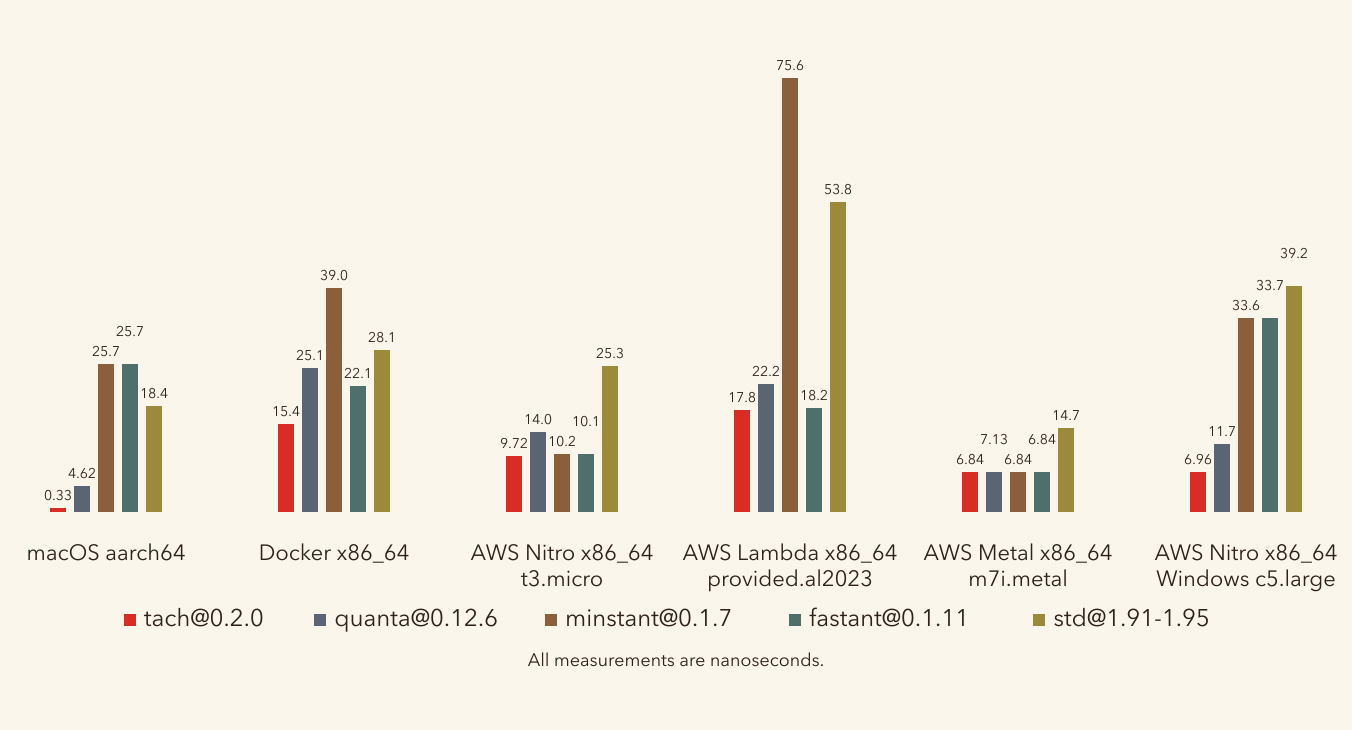
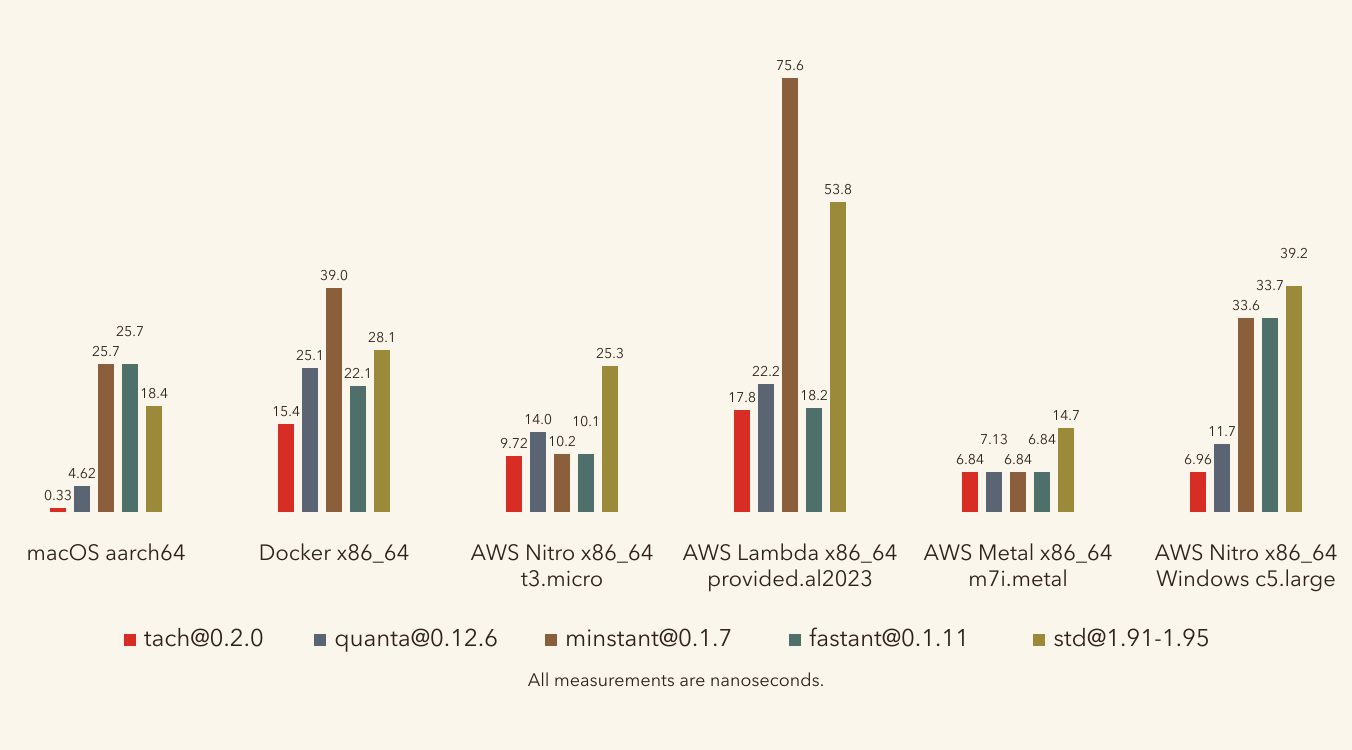
docs(benches): add breathing room above the legend
Bump LABEL_TO_LEGEND_GAP from 20 to 30 so the legend is visually
separated from the cell-label stack; canvas heights gain +10 each
to preserve the bottom margin.

diff --git a/benches/assets/render_benchmark.py b/benches/assets/render_benchmark.py
@@ -81,8 +81,8 @@ BAR_GAP = 4
 GROUP_WIDTH = 94
 GROUP_GAP = 20
 LEFT = 6
-HEIGHT = 475
-SIMPLE_HEIGHT = 365
+HEIGHT = 485
+SIMPLE_HEIGHT = 375
 LEGEND_GAP = 18
 LEGEND_SQUARE = 6
 GROUP_TOP = 12
@@ -102,7 +102,7 @@ LABEL_FONT_SIZE = 11
 LABEL_LINE_GAP = 13
 LABEL_TOP = BAR_BOTTOM + 21
 SIMPLE_LABEL_TOP = SIMPLE_BAR_BOTTOM + 24
-LABEL_TO_LEGEND_GAP = 20
+LABEL_TO_LEGEND_GAP = 30
 LEGEND_TO_NOTE_GAP = 20
 TARGET_LABEL_FONT_SIZE = 7
 LEGEND_FONT_SIZE = 12
